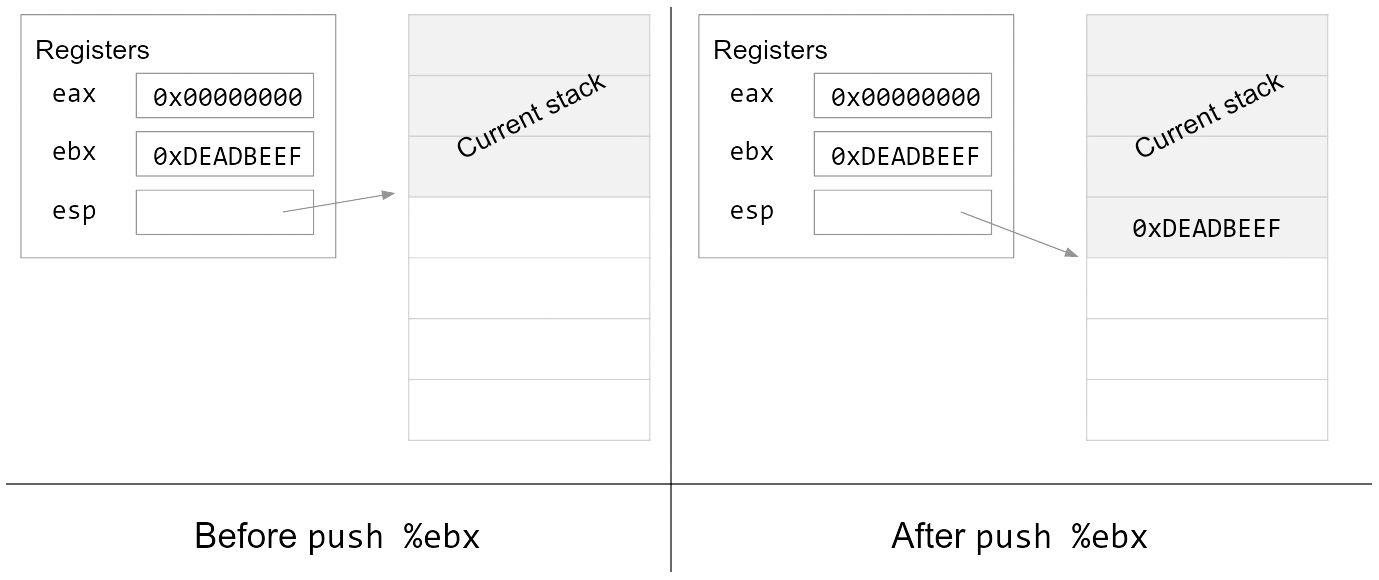
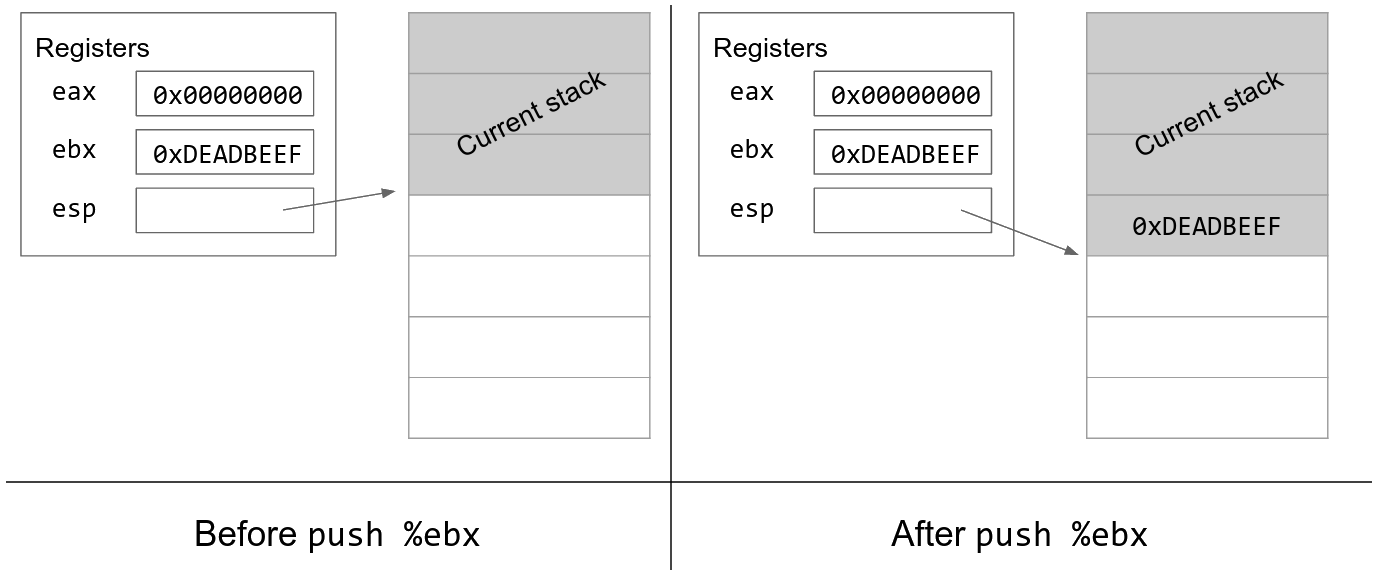
resize mem safety images

diff --git a/memory-safety/x86.md b/memory-safety/x86.md
@@ -54,13 +54,11 @@ The size of the address space depends on your operating system and CPU architect
 
 We can draw the memory layout as one long array with $$2^{32}$$ elements, where each element is one byte. The leftmost element has address `0x00000000`, and the rightmost element has address `0xFFFFFFFF`.[^3]
 
-![1-dimensional address
-space](/assets/images/memory-safety/x86/1d-address-space.png)
+<img src="/assets/images/memory-safety/x86/1d-address-space.png" alt="1-dimensional address space" width="60%">
 
 However, this is hard to read, so we usually draw memory as a grid of bytes. In the grid, the bottom-left element has address `0x00000000`, and the top-right element has address `0xFFFFFFFF`. Addresses increase as you move from left to right and from bottom to top.
 
-![2-dimensional address
-space](/assets/images/memory-safety/x86/2d-address-space.png)
+<img src="/assets/images/memory-safety/x86/2d-address-space.png" alt="2-dimensional address space" width="60%">
 
 Although we can draw memory as a grid with annotations and labels, remember that the program only sees a huge array of raw bytes. It is up to the programmer and the compiler to manipulate this chunk of raw bytes to create objects like variables, pointers, arrays, and structs.
 
@@ -71,13 +69,13 @@ When a program is being run, the address space is divided into four sections. Fr
 - The _heap_ stores dynamically allocated data. When you call `malloc` in C, memory is allocated on the heap and given to you for use until you call `free`. The heap starts at lower addresses and "grows up" to higher addresses as more memory is allocated.
 - The _stack_ stores local variables and other information associated with function calls. The stack starts at higher addresses and "grows down" as more functions are called.
 
-![Memory Sections](/assets/images/memory-safety/x86/memory-sections.png)
+<img src="/assets/images/memory-safety/x86/memory-sections.png" alt="Memory sections" width="50%">
 
 ## 2.4. Little-endian words
 
 x86 is a _little-endian_ system. This means that when storing a word in memory, the least significant byte is stored at the lowest address, and the most significant byte is stored at the highest address. For example, here we are storing the word `0x44332211` in memory:
 
-![Little-endian word format](/assets/images/memory-safety/x86/little-endian.png)
+<img src="/assets/images/memory-safety/x86/little-endian.png" alt="Little-endian word format" width="40%">
 
 Note that the least significant byte `0x11` is stored at the lowest address, and the most significant byte `0x44` is stored at the highest address.
 
@@ -142,63 +140,51 @@ There are 11 steps to calling an x86 function and returning. In this example, `m
 
 Here is the stack before the function is called. ebp and esp point to the top and bottom of the caller stack frame.
 
-![Initial stack diagram, with a stack frame for main at the
-top](/assets/images/memory-safety/x86/stack0.png)
+<img src="/assets/images/memory-safety/x86/stack0.png" alt="Initial stack diagram, with a stack frame for main at the top" width="50%">
 
 **1. Push arguments onto the stack.** RISC-V passes arguments by storing them in registers, but x86 passes arguments by pushing them onto the stack. Note that esp is decremented as we push arguments onto the stack. Arguments are pushed onto the stack in reverse order.
 
-![Next stack diagram, with argument 2 pushed below the stack frame for main and
-argument 1 pushed below argument 2](/assets/images/memory-safety/x86/stack1.png)
+<img src="/assets/images/memory-safety/x86/stack1.png" alt="Next stack diagram, with argument 2 pushed below the stack frame for main and argument 1 pushed below argument 2" width="50%">
 
 **2. Push the old eip (rip) on the stack.** We are about to change the value in the eip register, so we need to save its current value on the stack before we overwrite it with a new value. When we push this value on the stack, it is called the _old eip_ or the _rip_ (return instruction pointer).[^6]
 
-![Next stack diagram, with the old eip pushed below argument
-1](/assets/images/memory-safety/x86/stack2.png)
+<img src="/assets/images/memory-safety/x86/stack2.png" alt="Next stack diagram, with the old eip pushed below argument 1" width="50%">
 
 **3. Move eip.** Now that we've saved the old value of eip, we can safely change eip to point to the instructions for the callee function.
 
-![Next stack diagram, with the eip moved to the code for
-foo](/assets/images/memory-safety/x86/stack3.png)
+<img src="/assets/images/memory-safety/x86/stack3.png" alt="Next stack diagram, with the eip moved to the code for foo" width="50%">
 
 **4. Push the old ebp (sfp) on the stack.** We are about to change the value in the ebp register, so we need to save its current value on the stack before we overwrite it with a new value. When we push this value on the stack, it is called the _old ebp_ or the _sfp_ (saved frame pointer). Note that esp has been decremented because we pushed a new value on the stack.
 
-![Next stack diagram, with the old ebp pushed below the old
-eip](/assets/images/memory-safety/x86/stack4.png)
+<img src="/assets/images/memory-safety/x86/stack4.png" alt="Next stack diagram, with the old ebp pushed below the old eip" width="50%">
 
 **5. Move ebp down.** Now that we've saved the old value of ebp, we can safely change ebp to point to the top of the new stack frame. The top of the new stack frame is where esp is currently pointing, since we are about to allocate new space below esp for the new stack frame.
 
-![Next stack diagram, with the ebp moved to the
-esp](/assets/images/memory-safety/x86/stack5.png)
+<img src="/assets/images/memory-safety/x86/stack5.png" alt="Next stack diagram, with the ebp moved to the esp" width="50%">
 
 **6. Move esp down.** Now we can allocate new space for the new stack frame by decrementing esp. The compiler looks at the complexity of the function to determine how far esp should be decremented. For example, a function with only a few local variables doesn't require too much space on the stack, so esp will only be decremented by a few bytes. On the other hand, if a function declares a large array as a local variable, esp will need to be decremented by a lot to fit the array on the stack.
 
-![Next stack diagram, with the esp down by 8
-bytes](/assets/images/memory-safety/x86/stack6.png)
+<img src="/assets/images/memory-safety/x86/stack6.png" alt="Next stack diagram, with the esp down by 8 bytes" width="50%">
 
 **7. Execute the function.** Local variables and any other necessary data can now be saved in the new stack frame. Additionally, since ebp is always pointing at the top of the stack frame, we can use it as a point of reference to find other variables on the stack. For example, the arguments will be located starting at the address stored in ebp, plus 8.
 
-![Next stack diagram, with the 8 bytes previously allocated now having been used
-for local variables](/assets/images/memory-safety/x86/stack7.png)
+<img src="/assets/images/memory-safety/x86/stack7.png" alt="Next stack diagram, with the 8 bytes previously allocated now having been used for local variables" width="50%">
 
 **8. Move esp up.** Once the function is ready to return, we increment esp to point to the top of the stack frame (ebp). This effectively erases the stack frame, since the stack frame is now located below esp. (Anything on the stack below esp is undefined.)
 
-![Next stack diagram, with the esp moved back up by 8
-bytes](/assets/images/memory-safety/x86/stack8.png)
+<img src="/assets/images/memory-safety/x86/stack8.png" alt="Next stack diagram, with the esp moved back up by 8 bytes" width="50%">
 
 **9. Restore the old ebp (sfp)**. The next value on the stack is the sfp, the old value of ebp before we started executing the function. We pop the sfp off the stack and store it back into the ebp register. This returns ebp to its old value before the function was called.
 
-![Next stack diagram, with the old ebp popped off the stack and the ebp moved to
-its location](/assets/images/memory-safety/x86/stack9.png)
+<img src="/assets/images/memory-safety/x86/stack9.png" alt="Next stack diagram, with the old ebp popped off the stack and the ebp moved to its location" width="50%">
 
 **10. Restore the old eip (rip)**. The next value on the stack is the rip, the old value of eip before we started executing the function. We pop the rip off the stack and store it back into the eip register. This returns eip to its old value before the function was called.[^7]
 
-![Next stack diagram, with the old eip popped off the stack and the eip moved to
-its location](/assets/images/memory-safety/x86/stack10.png)
+<img src="/assets/images/memory-safety/x86/stack10.png" alt="Next stack diagram, with the old eip popped off the stack and the eip moved to its location" width="50%">
 
 **11. Remove arguments from the stack.** Since the function call is over, we don't need to store the arguments anymore. We can remove them by incrementing esp (recall that anything on the stack below esp is undefined).
 
-![Next stack diagram, with the esp moved up by 8 bytes to now be above the
-arguments](/assets/images/memory-safety/x86/stack11.png)
+<img src="/assets/images/memory-safety/x86/stack11.png" alt="Next stack diagram, with the esp moved up by 8 bytes to now be above the arguments" width="50%">
 
 You might notice that we saved the old values of eip and ebp during the function call, but not the old value of esp. A nice consequence of this function call design is that esp will automatically move to the bottom of the stack as we push values onto the stack and automatically return to its old position as we remove values from the stack. As a result, there is no need to save the old value of esp during the function call.
 

diff --git a/memory-safety/vulnerabilities.md b/memory-safety/vulnerabilities.md
@@ -25,8 +25,7 @@ void vulnerable() {
 
 In this example, `gets()` reads as many bytes of input as the user supplies (through standard input), and stores them into `buf[]`. If the input contains more than 8 bytes of data, then `gets()` will write past the end of `buf`, overwriting some other part of memory. This is a bug.
 
-![Two words of memory for buf overwritten and two more words of memory above it
-overwritten](/assets/images/memory-safety/vulnerabilities/overflow1.png)
+<img src="/assets/images/memory-safety/vulnerabilities/overflow1.png" alt="Two words of memory for buf overwritten and two more words of memory above it overwritten" width="30%">
 
 Note that `char buf[8]` is defined outside of the function, so it is located in the static part of memory. Also note that each row of the diagram represents 4 bytes, so `char buf[8]` takes up 2 rows.
 
@@ -46,8 +45,7 @@ Note that both `char buf[8]` and `authenticated` are defined outside of the func
 
 Imagine that elsewhere in the code, there is a login routine that sets the `authenticated` flag only if the user proves knowledge of the password. Unfortunately, the `authenticated` flag is stored in memory right after `buf`. Note that we use "after" here to mean "at a higher memory address".
 
-![Two words of memory for buf overwritten and an authenticated above it
-overwritten](/assets/images/memory-safety/vulnerabilities/overflow2.png)
+<img src="/assets/images/memory-safety/vulnerabilities/overflow2.png" alt="Two words of memory for buf overwritten and an authenticated above it overwritten" width="30%">
 
 If the attacker can write 9 bytes of data to `buf` (with the 9th byte set to a non-zero value), then this will set the `authenticated` flag to true, and the attacker will be able to gain access.
 
@@ -67,8 +65,7 @@ void vulnerable() {
 
 Like `authenticated` in the previous example, `fnptr` is stored directly above `buf` in memory.
 
-![Two words of memory for buf overwritten and a function pointer above it
-overwritten](/assets/images/memory-safety/vulnerabilities/overflow3.png)
+<img src="/assets/images/memory-safety/vulnerabilities/overflow3.png" alt="Two words of memory for buf overwritten and a function pointer above it overwritten" width="30%">
 
 Suppose the function pointer `fnptr` is called elsewhere in the program (not shown). This enables a more serious attack: the attacker can overwrite `fnptr` with any address of their choosing, redirecting program execution to some other memory location.
 
@@ -99,8 +96,7 @@ void vulnerable() {
 
 When `vulnerable()` is called, a stack frame is pushed onto the stack. The stack will look something like this:
 
-![Two words of memory for buf overwritten and the rip and sfp above it
-overwritten](/assets/images/memory-safety/vulnerabilities/overflow4.png)
+<img src="/assets/images/memory-safety/vulnerabilities/overflow4.png" alt="Two words of memory for buf overwritten and the rip and sfp above it overwritten" width="30%">
 
 If the input is too long, the code will write past the end of `buf`, overwrite the sfp, and overwrite the rip. This is a _stack smashing_ attack.
 
@@ -116,9 +112,7 @@ After writing 12 garbage bytes, our next input bytes will overwrite the rip. Rec
 
 Since malicious code exists at address `0xDEADBEEF`, the second part of our input, which overwrites the rip, is the address `0xDEADBEEF`. Note that since x86 is little-endian, we must input the bytes in reverse order: the byte `0xEF` is entered first, and the byte `0xDE` is entered last.
 
-![Two words of memory for buf and the sfp overwritten with 0xAAAA and the rip
-overwritten with
-0xDEADBEEF](/assets/images/memory-safety/vulnerabilities/overflow5.png)
+<img src="/assets/images/memory-safety/vulnerabilities/overflow5.png" alt="Two words of memory for buf and the sfp overwritten with 0xAAAA and the rip overwritten with 0xDEADBEEF" width="50%">
 
 Now, when the `vulnerable()` function returns, the program will start executing instructions at the address in rip. Since we overwrote the rip with the address `0xDEADBEEF`, the program will start executing the malicious instructions at that address. This effectively transfers control of the program over to the attacker's malicious code.
 
@@ -134,9 +128,7 @@ At this point, we've entered 8 bytes, so we've filled up all of `buf`. Our next 
 
 Finally, we overwrite the rip with the address of shellcode, as before. However, this time, the shellcode is located in the buffer, so we overwrite the rip with the address of `buf`. When the function returns, it will start executing instructions at `buf`, which causes the shellcode to execute.
 
-![buf overwritten with shellcode, the sfp overwritten with 0xAAAA, and the rip
-overwritten with the address of
-buf](/assets/images/memory-safety/vulnerabilities/overflow6.png)
+<img src="/assets/images/memory-safety/vulnerabilities/overflow6.png" alt="buf overwritten with shellcode, the sfp overwritten with 0xAAAA, and the rip overwritten with the address of buf" width="50%">
 
 Now suppose our shellcode is 100 bytes long. If we try our input from before, the shellcode won't fit in the 12 bytes between the buffer and the rip. It turns out we can still craft an input to exploit the program:
 
@@ -144,9 +136,7 @@ Now suppose our shellcode is 100 bytes long. If we try our input from before, th
 
 In this input, we place the shellcode directly above the rip in memory. The rip is 4 bytes long, so the address of the start of shellcode is 4 bytes greater than the address of the rip. When the function returns, it will start executing instructions 4 bytes above the address of the rip, where we've placed our shellcode.
 
-![Two words of buf and the sfp overwritten with 0xAAAA, the rip overwritten with
-the address of rip + 4, and the shellcode overwritten above
-it](/assets/images/memory-safety/vulnerabilities/overflow7.png)
+<img src="/assets/images/memory-safety/vulnerabilities/overflow7.png" alt="Two words of buf and the sfp overwritten with 0xAAAA, the rip overwritten with the address of rip + 4, and the shellcode overwritten above it" width="50%">
 
 The discussion above has barely scratched the surface of techniques for exploiting buffer overrun bugs. Stack smashing dates back to at least the late 1980s, when the [Morris Worm](https://en.wikipedia.org/wiki/Morris_worm) exploited a buffer overflow vulnerability to infect thousands of computers. Buffer overflows gained wider attention in 1998 with the publication of ["Smashing the Stack for Fun and Profit" by Aleph One](https://inst.eecs.berkeley.edu/~cs161/fa08/papers/stack_smashing.pdf).
 
@@ -176,13 +166,13 @@ void not_vulnerable() {
 
 The stack diagram for this function would look something like this:
 
-![Initial non vulnerable code with printf](/assets/images/memory-safety/vulnerabilities/printfnotvulnerable.png)
+<img src="/assets/images/memory-safety/vulnerabilities/printfnotvulnerable.png" alt="Initial non vulnerable code with printf" width="35%">
 
 When the `printf()` function executes, it looks for a format string modifier denoted by a “%” in its first argument located 4 bytes above the RIP of `printf()`. If it finds the modifier, it then looks 8 bytes above the RIP for the "actual" argument (i.e. what the format modifier will be acting upon).
 
 The behavior of the `printf()` function is generally controlled by the format modifier(s) that are passed into the function. The `printf()` function retrieves the parameters that are requested by the format string from the stack. Take, for example, the following line of code: `printf("x has the value %d, y has the value %d, z has the value %d \n", x, y, z);` The stack frame for this line of code would look like:
 
-![Not vulnerable printf statement](/assets/images/memory-safety/vulnerabilities/printfnotvulnerable2.png)
+<img src="/assets/images/memory-safety/vulnerabilities/printfnotvulnerable2.png" alt="Not vulnerable printf statement" width="35%">
 
 Remember that arguments to a function are pushed onto the stack in reverse order, which is why the address of the format string is at a lower address compared to the values of `x`, `y`, and `z`.
 
@@ -317,8 +307,7 @@ Buffer overflows, format string vulnerabilities, and the other examples above ar
 
 C++ vtable pointers are a classic example of a _heap overflow_. In C++, the programmer can declare an object on the heap. Storing an object requires storing a _vtable pointer_, a pointer to an array of pointers. Each pointer in the array contains the address of one of that object's methods. The object's instance variables are stored directly above the vtable pointer.
 
-![A diagram of a C++ object allocated in the heap, with its instance variables
-above its vtable](/assets/images/memory-safety/vulnerabilities/vtable.png)
+<img src="/assets/images/memory-safety/vulnerabilities/vtable.png" alt="A diagram of a C++ object allocated in the heap, with its instance variables above its vtable" width="60%">
 
 If the programmer fails to check bounds correctly, the attacker can overflow one of the instance variables of object `x`. If there is another object above `x` in memory, like object `y` in this diagram, then the attacker can overwrite that object's vtable pointer.
 

diff --git a/memory-safety/mitigations.md b/memory-safety/mitigations.md
@@ -85,8 +85,7 @@ The stack canary uses the fact that many common stack smashing attacks involve o
 
 The stack canary is placed directly above the local variables and directly below the saved registers (sfp and rip):
 
-![A stack canary located between the sfp and the local variables of a given
-stack frame](/assets/images/memory-safety/mitigations/canary.png)
+<img src="/assets/images/memory-safety/mitigations/canary.png" alt="A stack canary located between the sfp and the local variables of a given stack frame" width="30%">
 
 Suppose an attacker wants to overflow a local variable to overwrite the rip on the stack, and the vulnerability only allows the attacker to write to consecutive, increasing addresses in memory. Then the attacker must overwrite the stack canary before overwriting the rip, since the rip is located above the buffer in the stack.
 
